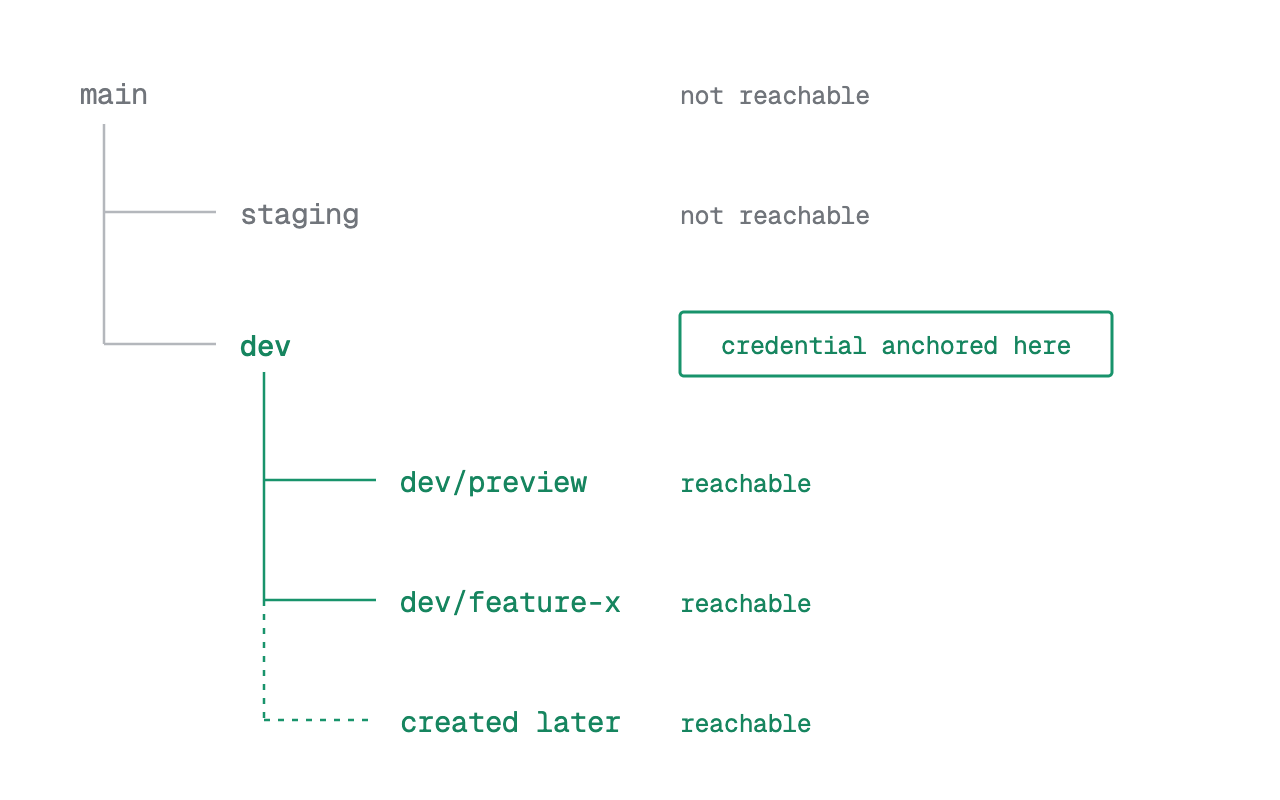
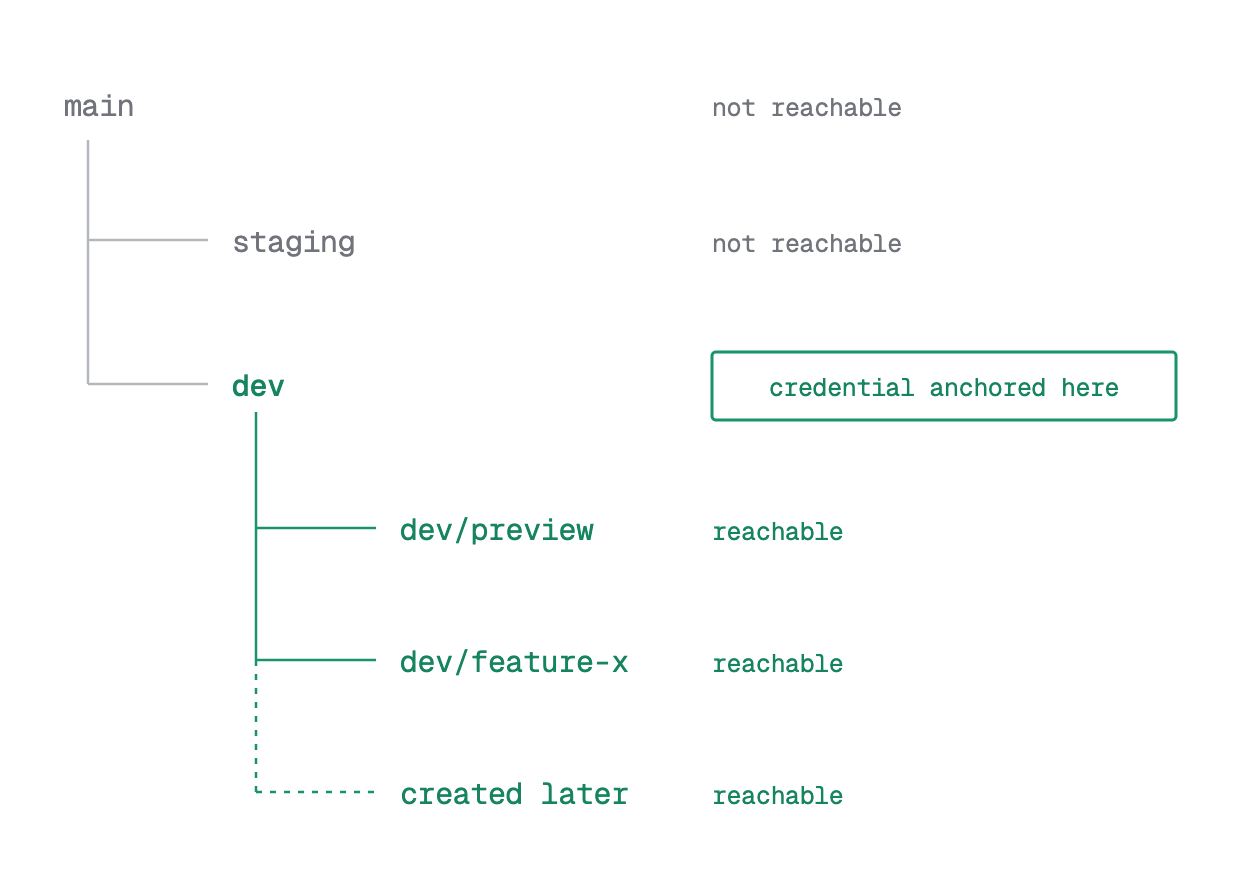
docs: tighten Credentials & access page and update diagrams (LKB-16595)
- API-key kinds and service-credential scopes as bullet lists
- decision table Use column trimmed to linked object names
- resized/relabeled scope-branch, api-key-kinds, branch-anchor diagrams

diff --git a/content/docs/concepts/credentials-access.md b/content/docs/concepts/credentials-access.md
@@ -24,19 +24,25 @@ Availability differs by product and by region. See [Product availability](/docs/
 
 ## Which credential do you need?
 
-| Goal                                                                          | Use                                                                | Scope and reach                                                                                                                                          |
-| ----------------------------------------------------------------------------- | ------------------------------------------------------------------ | -------------------------------------------------------------------------------------------------------------------------------------------------------- |
-| Create or manage projects, branches, and settings, or issue other credentials | Platform API key (personal, organization, or project-scoped)       | Personal keys act with your effective access; organization keys cover one organization; project-scoped keys cover one project and can't reach outside it |
-| Have a workload read files or call models                                     | Service credential (an S3-compatible access key or a bearer token) | By its scopes, such as `storage:read`, plus a branch anchor that covers the branch and its descendants                                                   |
-| Connect to Postgres                                                           | A database connection credential and the branch endpoint           | IP Allow and Private Networking apply here, and only here                                                                                                |
-| Authorize an end user through the Data API                                    | A JWT from a trusted issuer, plus database roles and RLS           | Trust is registered on the project, and `GRANT`s and RLS in your database decide what the query can do                                                   |
+| Goal                                                                          | Use                                                           | Scope and reach                                                                                                                                          |
+| ----------------------------------------------------------------------------- | ------------------------------------------------------------- | -------------------------------------------------------------------------------------------------------------------------------------------------------- |
+| Create or manage projects, branches, and settings, or issue other credentials | [Platform API key](/docs/manage/api-keys)                     | Personal keys act with your effective access; organization keys cover one organization; project-scoped keys cover one project and can't reach outside it |
+| Have a workload read files or call models                                     | [Service credential](/docs/storage/authentication)           | By its scopes, such as `storage:read`, plus a branch anchor that covers the branch and its descendants                                                   |
+| Connect to Postgres                                                           | [Database connection credential](/docs/connect/connect-intro) | IP Allow and Private Networking apply here, and only here                                                                                                |
+| Authorize an end user through the Data API                                    | [JWT from a trusted issuer](/docs/data-api/access-control)    | Trust is registered on the project, and `GRANT`s and RLS in your database decide what the query can do                                                   |
 
 ## Platform API keys
 
 <div className="flex items-center gap-6 sm:flex-col">
   <div style={{ flex: '1 1 50%' }}>
 
-An API key is a bearer token for the [Neon API](/docs/reference/api), and there's one API surface for the whole platform rather than one per product, so a single key covers Postgres, Object Storage, the AI Gateway, Functions, and Managed Better Auth alike. Keys come in three kinds with decreasing reach: personal keys that act as you, organization keys that cover one organization, and project-scoped keys that cover one project. An API key can create a service credential, but a service credential cannot create or manage anything, so keep API keys out of your application runtime. See [Manage API keys](/docs/manage/api-keys).
+An API key is a bearer token for the [Neon API](/docs/reference/api), and there's one API surface for the whole platform rather than one per product, so a single key covers Postgres, Object Storage, the AI Gateway, Functions, and Managed Better Auth alike. Keys come in three kinds with decreasing reach:
+
+- **Personal keys** act as you.
+- **Organization keys** cover one organization.
+- **Project-scoped keys** cover one project.
+
+An API key can create a service credential, but a service credential cannot create or manage anything, so keep API keys out of your application runtime. See [Manage API keys](/docs/manage/api-keys).
 
   </div>
   <div style={{ flex: '1 1 50%' }}>
@@ -51,7 +57,12 @@ An API key is a bearer token for the [Neon API](/docs/reference/api), and there'
 <div className="flex items-center gap-6 sm:flex-col">
   <div style={{ flex: '1 1 50%' }}>
 
-Most of what your running app connects to uses service credentials. Object Storage and the AI Gateway use one shared credential, and the scopes you attach decide what it unlocks: `storage:read` and `storage:write` for Object Storage, `ai_gateway:invoke` for the AI Gateway. A credential has two independent dimensions: its scopes say what it can do, and its branch anchor says where it reaches. See [Object storage authentication](/docs/storage/authentication) and [AI Gateway authentication](/docs/ai-gateway/authentication).
+Most of what your running app connects to uses service credentials. Object Storage and the AI Gateway use one shared credential, and the scopes you attach decide what it unlocks:
+
+- `storage:read` and `storage:write` for Object Storage.
+- `ai_gateway:invoke` for the AI Gateway.
+
+A credential has two independent dimensions: its scopes say what it can do, and its branch anchor says where it reaches. See [Object storage authentication](/docs/storage/authentication) and [AI Gateway authentication](/docs/ai-gateway/authentication).
 
   </div>
   <div style={{ flex: '1 1 50%' }}>
